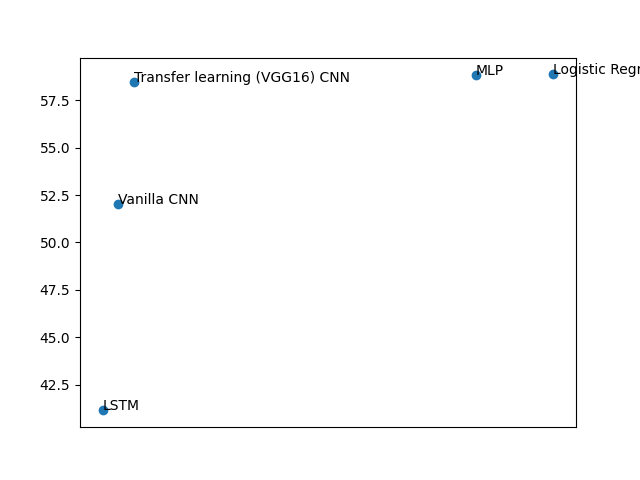
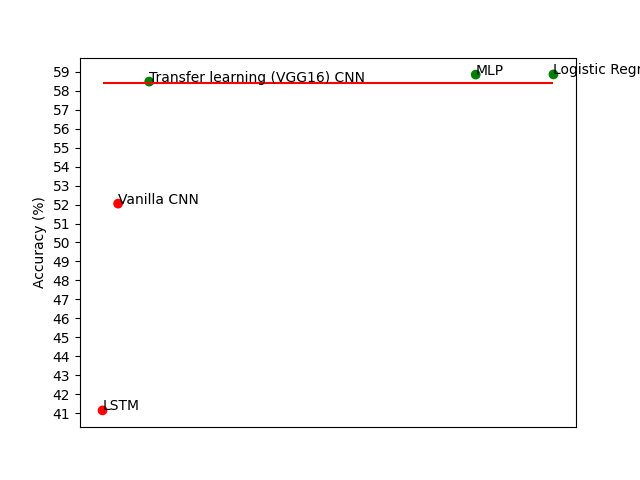
Add ylabel and yticks to the accuracy scatter plot

diff --git a/plot_acc.py b/plot_acc.py
@@ -1,6 +1,7 @@
+import math
 import matplotlib.pyplot as plt
 
-x = [1, 2, 3, 25, 30]
+x = [1, 2, 4, 25, 30]
 y = [
     41.152474880218506,
     52.0476231406886,
@@ -19,7 +20,11 @@ n = [
 fig, ax = plt.subplots()
 plt.tick_params(axis="x", which="both", bottom=False,
                 top=False, labelbottom=False)
-ax.scatter(x, y)
+plt.hlines(y=58.4158415842, xmin=1, xmax=30,
+           label="Baseline", color="r", linestyle="-")
+plt.ylabel("Accuracy (%)")
+plt.yticks(range(math.ceil(max(y)) + 1))
+ax.scatter(x, y, color=["red", "red", "green", "green", "green"])
 
 for i, txt in enumerate(n):
     ax.annotate(txt, (x[i], y[i]))
